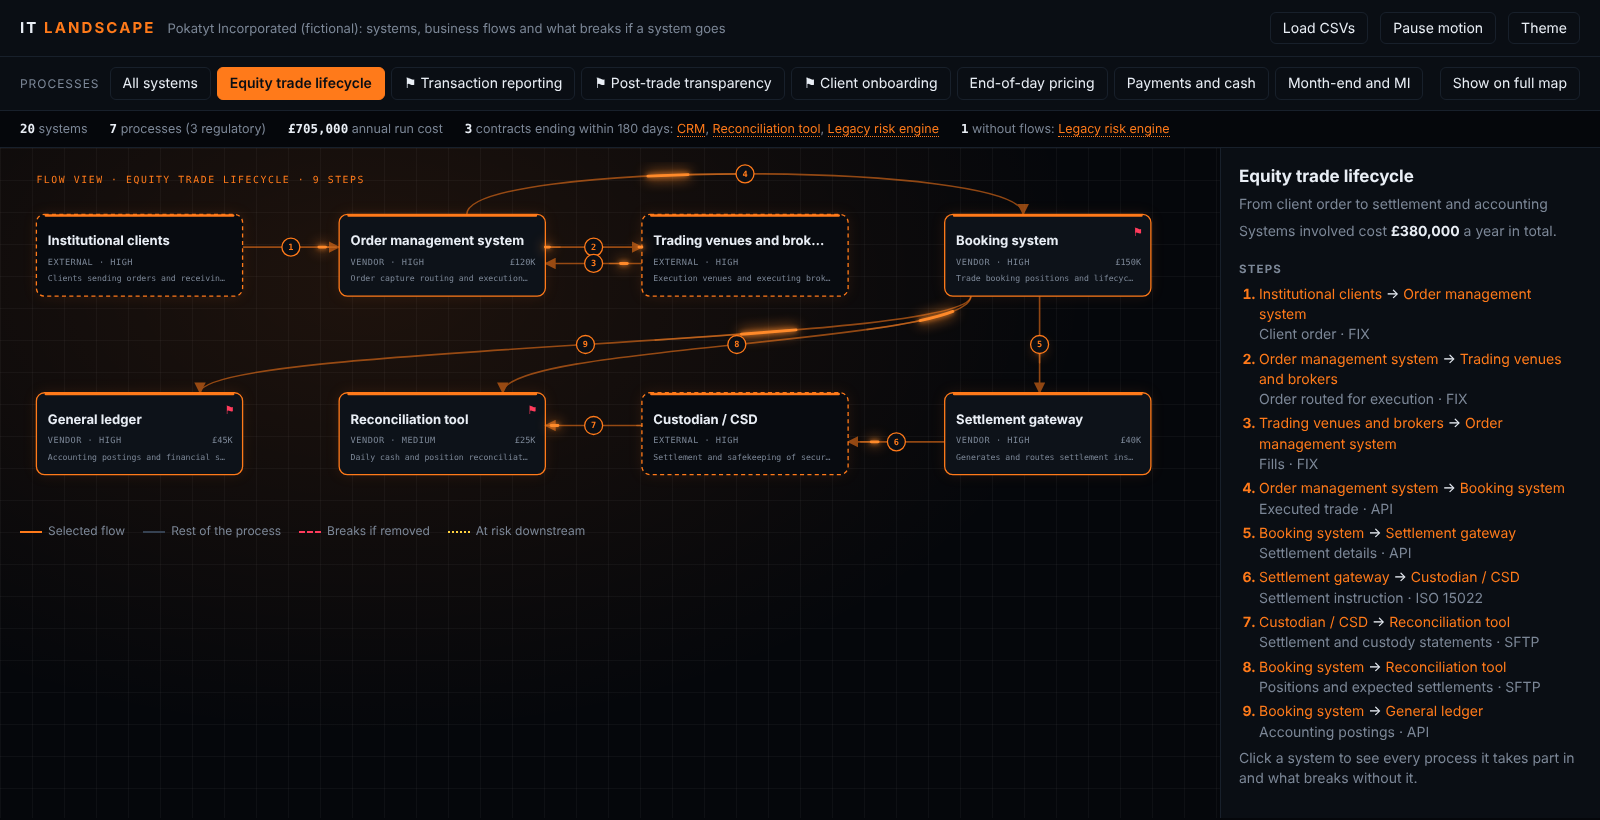
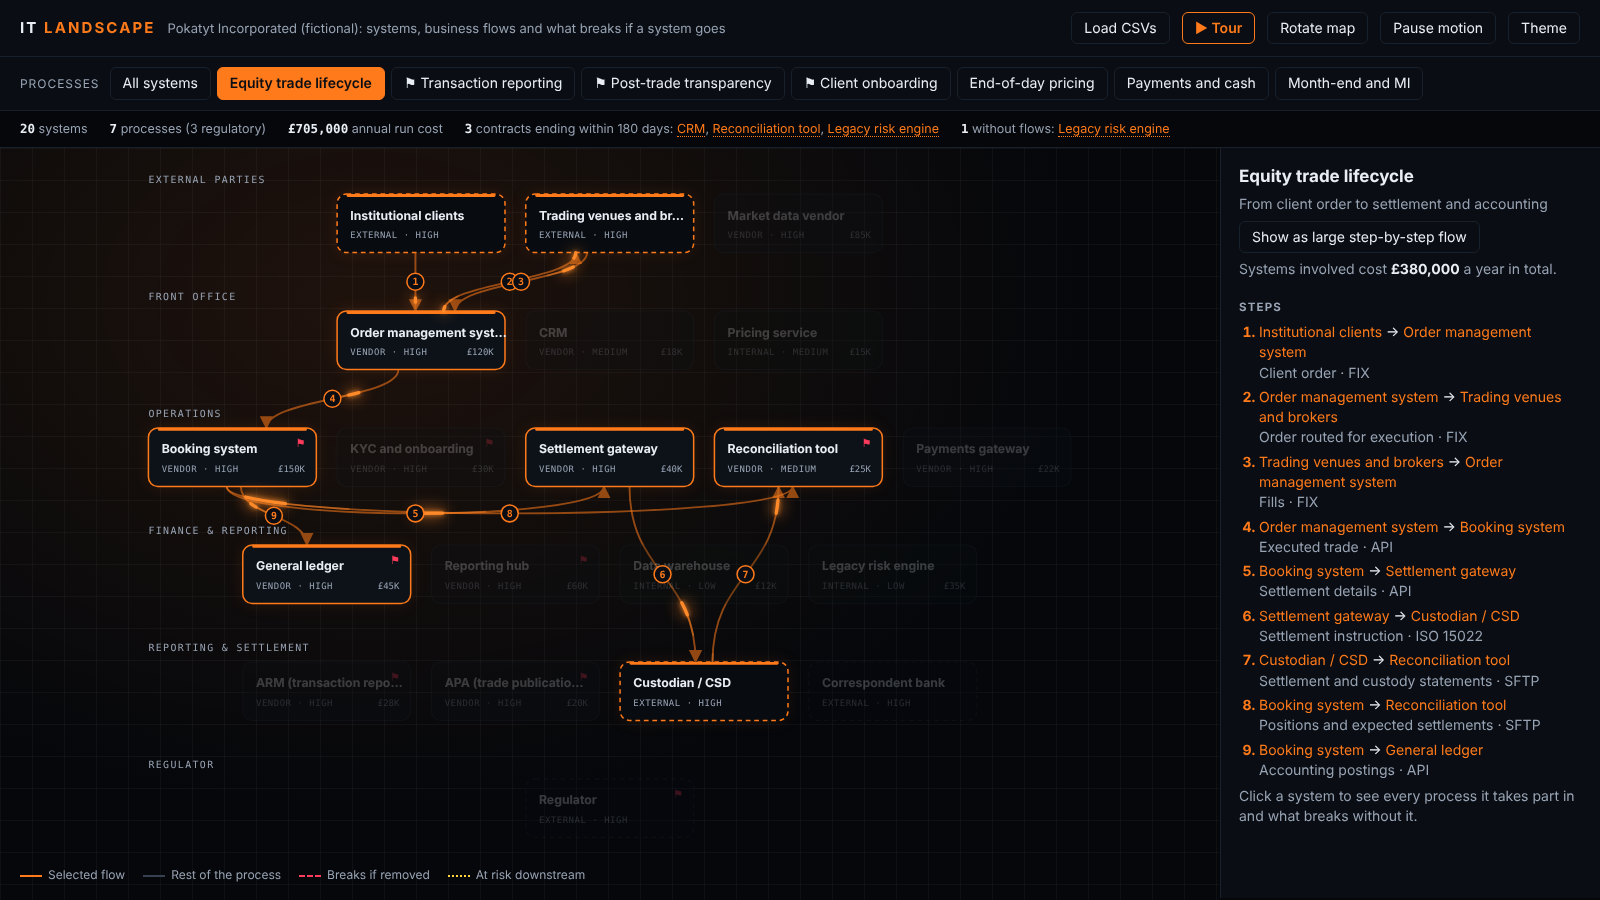
Guided tour, vertical map by default, fit-to-screen layout
The site now tells the same story as the demo video: processes light up on
one vertical map, with a 30-second tour that plays once on first visit.
Rotate map switches to the horizontal view; the large step-by-step flow is
one click away. Compact header and single-row process bar on phones.

diff --git a/index.html b/index.html
@@ -52,6 +52,25 @@
     background-image: radial-gradient(ellipse at 30% 20%, var(--glow), transparent 60%),
       linear-gradient(var(--grid) 1px, transparent 1px), linear-gradient(90deg, var(--grid) 1px, transparent 1px);
     background-size: 100% 100%, 32px 32px, 32px 32px; }
+  #canvas { position: relative; }
+  #svg { display: block; margin: 0 auto; width: auto; height: auto; max-width: 100%; }
+  .bar { flex-wrap: nowrap; overflow-x: auto; scrollbar-width: thin; }
+  .bar button, .bar .label { flex: none; white-space: nowrap; }
+  .stats { flex-wrap: nowrap; overflow-x: auto; white-space: nowrap; scrollbar-width: none; }
+  @media (max-width: 700px) {
+    header { padding: 10px 14px; gap: 8px; } header h1 { font-size: 13px; }
+    header .sub, #loadBtn, #rotate { display: none; }
+    header button { padding: 4px 9px; font-size: 13px; }
+    .bar, .stats { padding-left: 14px; padding-right: 14px; }
+    #canvas { padding: 10px 12px 16px; }
+    #tourcap { margin: -10px -12px 6px; padding: 10px 12px 12px; }
+    #tourcap .t { font-size: 19px; }
+  }
+  #tourcap { position: sticky; top: 0; z-index: 5; margin: -14px -20px 6px; padding: 14px 20px 16px; background: linear-gradient(var(--bg) 70%, transparent); display: none; }
+  #tourcap.on { display: block; }
+  #tourcap .k { color: var(--accent); font: 700 12px ui-monospace, Consolas, monospace; letter-spacing: .18em; text-transform: uppercase; }
+  #tourcap .t { font-size: 24px; font-weight: 750; margin-top: 4px; transition: opacity .3s; }
+  button.tour { border-color: var(--accent); color: var(--accent); font-weight: 600; }
   aside { border-left: 1px solid var(--line); background: var(--panel); padding: 16px 18px; overflow: auto; max-height: calc(100vh - 150px); }
   aside h2 { font-size: 17px; margin: 0 0 4px; }
   aside h3 { font-size: 11.5px; text-transform: uppercase; letter-spacing: .1em; color: var(--muted); margin: 20px 0 6px; }
@@ -132,7 +151,9 @@
   <h1>IT <span>Landscape</span></h1>
   <span class="sub" id="subtitle">Pokatyt Incorporated (fictional): systems, business flows and what breaks if a system goes</span>
   <span class="spacer"></span>
-  <label class="btn" title="Load systems.csv, scenarios.csv and/or flows.csv">Load CSVs<input type="file" id="file" accept=".csv,text/csv" multiple></label>
+  <label class="btn" id="loadBtn" title="Load systems.csv, scenarios.csv and/or flows.csv">Load CSVs<input type="file" id="file" accept=".csv,text/csv" multiple></label>
+  <button id="tour" class="tour" title="Play a 30-second guided tour">▶ Tour</button>
+  <button id="rotate" title="Rotate the map between vertical and horizontal">Rotate map</button>
   <button id="motion" title="Pause or resume the flow animation">Pause motion</button>
   <button id="theme" title="Toggle dark/light theme">Theme</button>
 </header>
@@ -141,6 +162,7 @@
 <div id="banner"></div>
 <main>
   <div id="canvas">
+    <div id="tourcap"><div class="k"></div><div class="t"></div></div>
     <svg id="svg" role="img" aria-label="System landscape diagram"></svg>
     <div class="legend">
       <span class="l-own">Selected flow</span><span class="l-ctx">Rest of the process</span>
@@ -163,7 +185,8 @@ const kmoney = v => v >= 1000 ? "£" + Math.round(v / 1000) + "K" : "£" + v;
 
 // ---------- State ----------
 let data = { systems: [], scenarios: [], flows: [] };
-let state = { mode: "all", scenario: null, system: null, simulate: false, layout: "flow" };
+let state = { mode: "all", scenario: null, system: null, simulate: false, layout: "map" };
+let orient = "vertical";
 let pos = {}, geo = { W: MAP.W, H: MAP.H, kind: "map" };
 
 // ---------- CSV ----------
@@ -243,7 +266,7 @@ const isNarrow = () => (document.getElementById("canvas").clientWidth || 1200) <
 function layoutMap() {
   const layers = {};
   for (const s of data.systems) (layers[s.layer] ||= []).push(s);
-  if (isNarrow()) {   // vertical: one row per layer, top to bottom
+  if (orient === "vertical" || isNarrow()) {   // vertical: one row per layer, top to bottom
     pos = {}; geo = { W: MAPV.W, H: MAPV.H, kind: "mapv" };
     const maxCols = Math.max(1, ...Object.values(layers).map(l => l.length));
     const width = MAPV.LEFT * 2 + maxCols * MAPV.W + (maxCols - 1) * MAPV.GX;
@@ -348,7 +371,7 @@ function renderDiagram() {
   const flowView = mode === "scenario" && state.layout === "flow";
   const L = flowView ? layoutFlow(scenario) : layoutMap();
   svg.setAttribute("viewBox", `0 0 ${L.width} ${L.height}`);
-  svg.style.width = "100%"; svg.style.maxWidth = L.width + "px"; svg.style.height = "auto";
+  svg.setAttribute("width", L.width); svg.setAttribute("height", L.height);
 
   const edges = [], boxCls = {};
   if (mode === "all") {
@@ -402,6 +425,14 @@ function renderDiagram() {
   });
   for (const s of data.systems) if (pos[s.id]) out += boxSvg(s, (boxCls[s.id] || []).join(" "));
   svg.innerHTML = out + beams.join("") + badges.join("");
+  fitSvg();
+}
+// Keep the whole map visible on desktop without scrolling.
+function fitSvg() {
+  const svg = document.getElementById("svg");
+  if (innerWidth <= 1000) { svg.style.maxHeight = ""; return; }
+  const avail = innerHeight - svg.getBoundingClientRect().top - 44;
+  svg.style.maxHeight = Math.max(280, avail) + "px";
 }
 
 function renderBar() {
@@ -409,7 +440,7 @@ function renderBar() {
   document.getElementById("scenarioBar").innerHTML = `<span class="label">Processes</span>` +
     `<button data-scn="" class="${state.mode === "all" ? "active" : ""}">All systems</button>` +
     data.scenarios.map(s => `<button data-scn="${esc(s.id)}" title="${esc(s.description)}" class="${state.mode === "scenario" && state.scenario === s.id ? "active" : ""} ${involved.has(s.id) ? "involved" : ""}">${s.regulatory ? "⚑ " : ""}${esc(s.name)}</button>`).join("") +
-    (state.mode === "scenario" ? `<span class="spacer"></span><button id="layoutBtn" title="Switch between the process flow and the full landscape">${state.layout === "flow" ? "Show on full map" : "Show as flow"}</button>` : "");
+    "";
 }
 
 function renderStats() {
@@ -431,6 +462,7 @@ function renderPanel() {
     const cost = [...new Set(F.flatMap(f => [f.from, f.to]))].reduce((a, id) => a + ((sysById(id) || {}).annual_cost || 0), 0);
     el.innerHTML = `<h2>${esc(s.name)}${s.regulatory ? '<span class="tag bad">⚑ regulatory</span>' : ""}</h2>
       <p class="muted">${esc(s.description)}</p>
+      <p><button id="layoutBtn" title="Switch between the full landscape and a large step-by-step flow">${state.layout === "flow" ? "Show on full map" : "Show as large step-by-step flow"}</button></p>
       <p class="muted">Systems involved cost <b style="color:var(--text)">${money.format(cost)}</b> a year in total.</p>
       <h3>Steps</h3><ol>${F.map(f => `<li><span class="linkish" data-sys="${esc(f.from)}">${esc(nameOf(f.from))}</span> → <span class="linkish" data-sys="${esc(f.to)}">${esc(nameOf(f.to))}</span><br><span class="muted">${esc(f.data)}${f.channel ? " · " + esc(f.channel) : ""}</span></li>`).join("")}</ol>
       <p class="muted">Click a system to see every process it takes part in and what breaks without it.</p>`;
@@ -462,11 +494,12 @@ function renderPanel() {
     el.innerHTML = html; return;
   }
   el.innerHTML = `<h2>How to use</h2>
-    <ol><li>Pick a <b>process</b> above to see it as a flow, step by step.</li>
+    <ol><li>Press <b>▶ Tour</b> for a 30-second walkthrough.</li>
+    <li>Pick a <b>process</b> above to see it light up across the landscape, step by step.</li>
     <li>Click a <b>system</b> to see every process it takes part in.</li>
     <li>Use <b>If removed</b> to see what breaks, who is left without input and which regulatory processes are affected.</li>
     <li>Systems with no flows are flagged as decommissioning candidates.</li></ol>
-    <p class="muted">⚑ marks regulatory systems and processes. Dashed boxes are external parties. Press Esc to reset.</p>
+    <p class="muted">⚑ marks regulatory systems and processes. Dashed boxes are external parties. <b>Rotate map</b> switches between vertical and horizontal. Press Esc to reset.</p>
     <h3>Your own data</h3>
     <p>Use <b>Load CSVs</b> to open your own <code>systems.csv</code>, <code>scenarios.csv</code> and <code>flows.csv</code>. Files stay in your browser; nothing is uploaded.</p>
     <div id="warnings"></div>`;
@@ -479,6 +512,7 @@ function selectSystem(id) { if (!sysById(id)) return; state = { ...state, mode: 
 function selectScenario(id) { state = id ? { ...state, mode: "scenario", scenario: id, system: null, simulate: false } : { ...state, mode: "all", scenario: null, system: null, simulate: false }; render(); }
 
 document.addEventListener("click", e => {
+  if (tourTimer && e.isTrusted && e.target.id !== "tour") stopTour();
   if (e.target.id === "simulate") { state.simulate = !state.simulate; return render(); }
   if (e.target.id === "layoutBtn") { state.layout = state.layout === "flow" ? "map" : "flow"; return render(); }
   const sys = e.target.closest("[data-sys], .sys");
@@ -499,6 +533,33 @@ motionBtn.onclick = () => applyMotion(document.body.classList.contains("no-motio
 document.getElementById("theme").onclick = () => applyTheme(document.documentElement.dataset.theme === "light" ? "dark" : "light");
 applyTheme(store.get("itl-theme") || "dark");
 applyMotion(store.get("itl-motion") !== "0");
+orient = store.get("itl-orient") || "vertical";
+document.getElementById("rotate").onclick = () => { orient = orient === "vertical" ? "horizontal" : "vertical"; store.set("itl-orient", orient); renderDiagram(); };
+
+// ---------- Guided tour (same story as the demo video) ----------
+const TOUR = [
+  ["Pokatyt Incorporated · a fictional broker", '"Can we switch this system off?"', () => selectScenario(""), 3500],
+  ["1 · Trading", "Equity trade: client to settlement", () => selectScenario("EQ"), 5000],
+  ["2 · Regulatory reporting", "Trades reported to the regulator", () => selectScenario("TR"), 4200],
+  ["3 · Finance", "Payments, cash and the ledger", () => selectScenario("PAYM"), 4000],
+  ["4 · Click a system", "What depends on the reporting hub?", () => selectSystem("RHUB"), 2800],
+  ["5 · Simulate removal", "2 regulatory processes break", () => { state.simulate = true; render(); }, 4500],
+  ["6 · Find savings", "No recorded flows · £35k annual cost", () => selectSystem("RISK_OLD"), 4000],
+  ["Your turn", "Pick a process above or click any system", () => selectScenario(""), 4000],
+];
+let tourTimer = null;
+const tourBtn = document.getElementById("tour"), tourCap = document.getElementById("tourcap");
+function stopTour() { clearTimeout(tourTimer); tourTimer = null; tourCap.classList.remove("on"); tourBtn.textContent = "▶ Tour"; fitSvg(); }
+function playTour(i = 0) {
+  if (i >= TOUR.length || !data.systems.length) return stopTour();
+  const [k, t, act, ms] = TOUR[i];
+  if (!sysById("RHUB") || !sysById("RISK_OLD")) return stopTour();   // tour is written for the demo data
+  tourCap.classList.add("on"); tourCap.querySelector(".k").textContent = k; tourCap.querySelector(".t").textContent = t;
+  state.layout = "map"; act();
+  tourBtn.textContent = "■ Stop tour";
+  tourTimer = setTimeout(() => playTour(i + 1), ms);
+}
+tourBtn.onclick = () => tourTimer ? stopTour() : playTour();
 
 document.getElementById("file").addEventListener("change", async e => {
   const loaded = [];
@@ -527,7 +588,7 @@ async function boot() {
   render();
 }
 let resizeTimer; addEventListener("resize", () => { clearTimeout(resizeTimer); resizeTimer = setTimeout(() => { renderDiagram(); }, 150); });
-boot();
+boot().then(() => { if (!store.get("itl-toured")) { store.set("itl-toured", "1"); playTour(); } });
 </script>
 </body>
 </html>

diff --git a/README.md b/README.md
@@ -33,14 +33,15 @@ Treat the landscape as **data, not a drawing**.
 
 `index.html` reads the CSVs and draws the diagram (layers become columns). Everything else is derived:
 
-- **Flow view:** pick a process to see only the systems involved, as large blocks laid out step by step, with light pulses travelling along each flow. *Show on full map* puts the same process back into the whole landscape.
+- **Guided tour:** *▶ Tour* plays a 30-second walkthrough of the main features. It runs once automatically on a visitor's first visit.
+- **Process view:** pick a process to see it light up across the landscape, step by step, with light pulses travelling along each flow. *Show as large step-by-step flow* shows the same process with only its systems, as large blocks.
 - **System view:** click a system to see every process it takes part in. Its own steps are highlighted and the rest of each process is shown faded, so you keep the context.
 - **If removed:** for each affected process the panel shows how many steps break directly, which systems are left without input, what is at risk downstream, and a warning when the process is regulatory. *Simulate removal* shows the same thing on the diagram.
 - **Housekeeping:** total annual run cost, contracts ending within 180 days, and systems with no flows at all, which are flagged as decommissioning candidates together with the potential saving.
 - **Your own data:** *Load CSVs* opens your files in the browser. Nothing is uploaded anywhere.
-- Dark (default) and light themes, a *Pause motion* switch, keyboard navigation (Tab, Enter, Esc).
+- Vertical map by default (it fits phones and laptops), *Rotate map* for the horizontal view, dark and light themes, a *Pause motion* switch, keyboard navigation (Tab, Enter, Esc).
 
-![Flow view: equity trade lifecycle](docs/process-view.png)
+![Process view: equity trade lifecycle](docs/process-view.png)
 
 ![Simulating the removal of the reporting hub](docs/screenshot.png)
 
